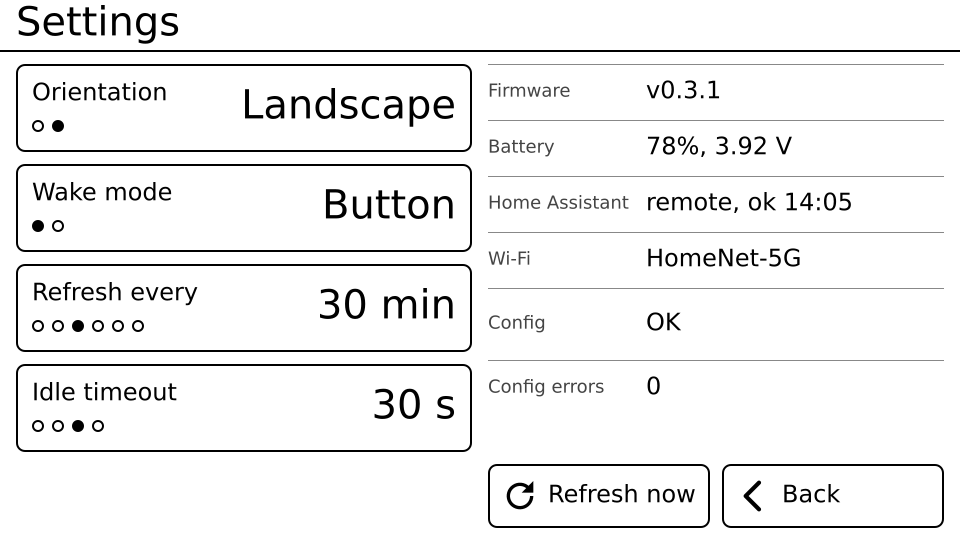
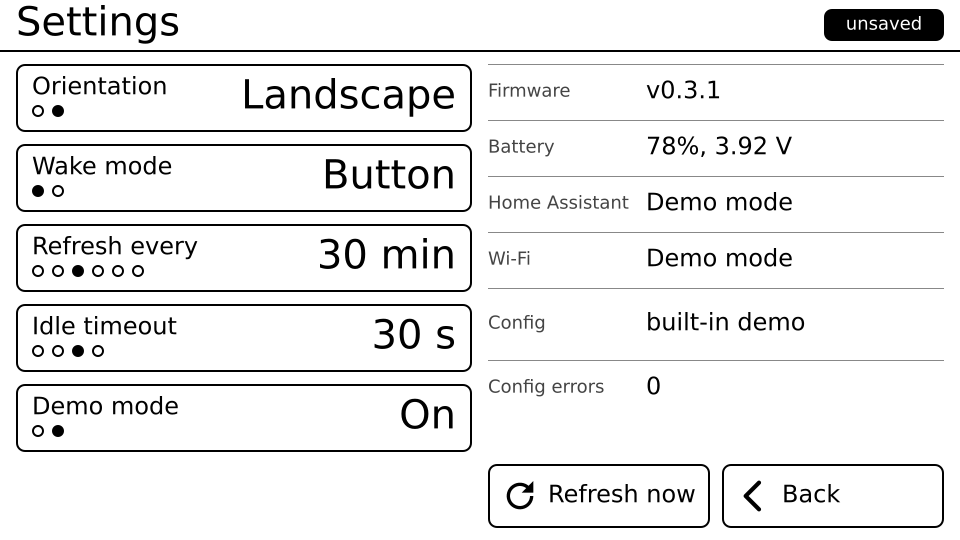
docs: settings spec with the Demo mode row (task 034)

diff --git a/docs/ui/settings.md b/docs/ui/settings.md
@@ -10,17 +10,18 @@ coordinates unless it says "row-relative".
 
 ## 1. Purpose and data sources
 
-Let the user change the four device settings, trigger a refresh, and see
+Let the user change the five device settings, trigger a refresh, and see
 read-only diagnostics.
 
 | Item | Source |
 |------|--------|
-| Orientation, wake mode, refresh interval, idle timeout | `settings::Settings` (lib/settings). Allowed values and cycle order = `kOrientationValues`, `kWakeModeValues`, `kRefreshIntervalMinValues` = {0, 15, 30, 60, 120, 240}, `kIdleTimeoutSValues` = {10, 20, 30, 60} |
+| Orientation, wake mode, refresh interval, idle timeout, demo mode | `settings::Settings` (lib/settings). Allowed values and cycle order = `kOrientationValues`, `kWakeModeValues`, `kRefreshIntervalMinValues` = {0, 15, 30, 60, 120, 240}, `kIdleTimeoutSValues` = {10, 20, 30, 60}, `demo_mode` (bool, `Off` -> `On`; task 034) |
 | Refresh now | the same state fetch as a tap on the "updated" label (ha_client) |
 | Firmware version | build-time constant (firmware-dev: needs a `FW_VERSION` define; architect to confirm where it comes from) |
 | Battery % and voltage | M5Unified power API, read when the screen opens and after every successful "Refresh now" |
 | HA connection | ha_client state: which URL worked last (local / remote), last success time (RTC), or offline |
 | Wi-Fi SSID | `connection:` section of config (the configured SSID); suffix `(not connected)` if the last session could not join |
+| Demo mode state | the saved `demo_mode` setting (when On, the app runs the embedded demo.yaml and starts no Wi-Fi/HA session; task 033/034) |
 | Config status, error count | config module (task 003 validation errors): first error's path and line, total count. Architect to confirm the config model exposes path + line of each error. |
 
 No Home Assistant entity or service is used except the shared state fetch.
@@ -43,6 +44,11 @@ No Home Assistant entity or service is used except the shared state fetch.
      sleep (power module reads the saved settings). The sleep indicator variant
      (STYLE.md 5.5) follows the saved wake mode.
    - Idle timeout: used from the moment Settings is left.
+   - Demo mode: applied on leaving, like orientation: the config source is
+     reloaded (embedded demo.yaml when On, the SD config when Off) and the tab
+     screen is drawn with the usual one full refresh. While it is On, no Wi-Fi
+     or HA session is started (and Refresh now does nothing but show its failed
+     look, see section 6).
 4. **Pending changes marker.** When buffer != saved, an INK chip `unsaved` is
    shown in the header. It disappears when equal again.
 5. **Idle in Settings.** The idle timer is fixed at 60 s while Settings is open
@@ -59,7 +65,7 @@ No Home Assistant entity or service is used except the shared state fetch.
    ARCHITECTURE.md). With Button the hint shows pips and the note slot is empty.
 7. **Value cycling.** Tap or push on a row moves to the next value in the
    `settings.h` array and wraps from the last to the first. There is no
-   "previous" (longest cycle is 6 values).
+   "previous" (longest cycle is 6 values; Demo mode cycles Off -> On -> Off).
 
 ## 3. Layout, portrait (540 x 960)
 
@@ -70,41 +76,46 @@ Margins 16, gaps between targets 12. White background. **All text that can chang
 | Title | x = 16, box (16, 0, 200, 54) | 27 | F40 INK, left | `Settings` |
 | Unsaved chip | (404, 11, 120, 32) | 27 | F18 PAPER on INK fill, radius 8, centred | `unsaved` (only when dirty) |
 | Header rule | (0, 54, 540, 2) | | INK fill | |
-| Row 1 Orientation | (16, 68, 508, 88) | 112 | border 2 INK, radius 8, PAPER | button |
-| Row 2 Wake mode | (16, 168, 508, 88) | 212 | same | button |
-| Row 3 Refresh every | (16, 268, 508, 88) | 312 | same | button |
-| Row 4 Idle timeout | (16, 368, 508, 88) | 412 | same | button |
+| Row 1 Orientation | (16, 68, 508, 68) | 102 | border 2 INK, radius 8, PAPER | button |
+| Row 2 Wake mode | (16, 148, 508, 68) | 182 | same | button |
+| Row 3 Refresh every | (16, 228, 508, 68) | 262 | same | button |
+| Row 4 Idle timeout | (16, 308, 508, 68) | 342 | same | button |
+| Row 5 Demo mode | (16, 388, 508, 68) | 422 | same | button |
 | Note slot | (16, 468, 508, 64) | 500 | see 3.2 | touch-wake warning |
 | Info hairline + rows | (16, 548 ... 852) | | see 3.3 | read-only |
 | Refresh now button | (16, 880, 248, 64) | 912 | border 2, radius 8 | action |
 | Back button | (276, 880, 248, 64) | 912 | border 2, radius 8 | action |
 
-Vertical sums: header 56; +12 = 68; rows 4 x 88 + 3 x 12 = 388 -> 456; +12 = 468;
+Row height is 68 (was 88 with four rows): 5 x 68 + 4 x 12 = 388, the same block height as before, so nothing below the rows moves. Vertical sums: header 56; +12 = 68; rows 388 -> 456; +12 = 468;
 note slot 64 -> 532; +16 = 548; info 5 x 48 + 64 = 304 -> 852; +28 = 880; footer 64 ->
 944; +16 = 960. Horizontal: 16 + 248 + 12 + 248 + 16 = 540 (the footer buttons
 use the widget grid's columns).
 
-### 3.1 Setting row (row-relative, width 508, height 88)
+### 3.1 Setting row (row-relative, width 508, height 68)
 
-Centre line of the row: cy = 44. Label and hint form a two-line block centred on 44
-(label cy = 30, hint cy = 62 -> block 21.5..68); the value is centred on cy = 44.
+Centre line of the row: cy = 34. Label and hint form a two-line block centred on 34
+(label F24 cy = 24 -> 12..36, hint cy = 47 -> 38..56, i.e. exactly inside the 12 px
+widget padding the checker uses); the value is centred on cy = 34.
 
 | Element | Rect | cy | Font / grey | Content |
 |---------|------|----|-------------|---------|
-| Label | x = 16, box (16, 18, 220, 24) | 30 | F24 INK, left | `Orientation`, `Wake mode`, `Refresh every`, `Idle timeout` |
-| Hint / pips | (16, 50, 220, 24) | 62 | see below | |
-| Value | right edge x = 492, box (240, 0, 252, 88) | 44 | F40 INK, right | value text |
+| Label | x = 16, box (16, 12, 220, 24) | 24 | F24 INK, left | `Orientation`, `Wake mode`, `Refresh every`, `Idle timeout`, `Demo mode` |
+| Hint / pips | (16, 38, 220, 18) | 47 | see below | |
+| Value | right edge x = 492, box (240, 0, 252, 68) | 34 | F40 INK, right | value text |
 
 Pips (hint line): one circle of diameter 12 per allowed value, centres at
-row-relative x = 22 + 20*k, cy = 62; the current value's pip is INK-filled,
-the others are 2 px outlines (shape, not grey). 2 pips for orientation and wake
-mode, 6 for refresh, 4 for idle. Wake mode with Touch replaces the pips by the
-warn icon (S) at (16, 50, 24, 24) and the text `drains battery` (F18 INK) at
-x = 46, cy = 62, left.
+row-relative x = 22 + 20*k, cy = 47; the current value's pip is INK-filled,
+the others are 2 px outlines (shape, not grey). 2 pips for orientation, wake
+mode and demo mode, 6 for refresh, 4 for idle. Wake mode with Touch replaces the
+pips by the text `drains battery` (F18 INK) at x = 16, cy = 47, left, and shows
+the warn icon (S, 24 x 24, cy = 34) just left of the value text, 12 px from its
+left edge (`Touch` at F40 is about 113 px wide, so the icon is at row-relative
+x = 356..380 in portrait). The icon moved out of the hint line because a 24 px
+icon under the label no longer fits the 68 px row.
 
 Value texts: Orientation `Portrait` / `Landscape`; Wake `Button` / `Touch`;
 Refresh `Off`, `15 min`, `30 min`, `60 min`, `120 min`, `240 min`; Idle `10 s`,
-`20 s`, `30 s`, `60 s`. Widest: `Landscape` at F40 is about 215 px, fits the
+`20 s`, `30 s`, `60 s`; Demo mode `Off` / `On`. Widest: `Landscape` at F40 is about 215 px, fits the
 252 px value rect and leaves room next to the longest label (`Refresh every`, about
 163 px at F24: 16 + 163 = 179 < 508 - 16 - 215 = 277).
 
@@ -127,10 +138,10 @@ fitting rule: F24, then F18, then `…`.
 |-----|------|----|-------|-------|
 | Firmware | (16, 548, 508, 48) | 572 | `Firmware` | `v0.3.1` |
 | Battery | (16, 596, 508, 48) | 620 | `Battery` | `78%, 3.92 V` (alert icon if <= 15 %, bolt icon if charging) |
-| HA | (16, 644, 508, 48) | 668 | `Home Assistant` | `local, ok 14:05` / `remote, ok 14:05` / alert icon + `offline, last ok 13:05` / alert icon + `offline, never ok` / `-` before the first session |
-| Wi-Fi | (16, 692, 508, 48) | 716 | `Wi-Fi` | SSID, or `SSID (not connected)`, or `-` |
-| Config | (16, 740, 508, 64) | 772 (lines 758 / 786) | `Config` | `OK`; or alert icon (cy 758) + first error up to 2 lines: `tabs[0].widgets[2].entity (line 34)`; or warn icon + `no config.yaml on SD` |
-| Errors | (16, 804, 508, 48) | 828 | `Config errors` | count (`0`, `3`), `-` when the config is missing |
+| HA | (16, 644, 508, 48) | 668 | `Home Assistant` | `Demo mode` (demo mode On) / `local, ok 14:05` / `remote, ok 14:05` / alert icon + `offline, last ok 13:05` / alert icon + `offline, never ok` / `-` before the first session |
+| Wi-Fi | (16, 692, 508, 48) | 716 | `Wi-Fi` | `Demo mode` (demo mode On), or SSID, or `SSID (not connected)`, or `-` |
+| Config | (16, 740, 508, 64) | 772 (lines 758 / 786) | `Config` | `OK`; or alert icon (cy 758) + first error up to 2 lines: `tabs[0].widgets[2].entity (line 34)`; or warn icon + `no config.yaml on SD`; `built-in demo` while demo mode is On (the SD config is not read; OPEN-S4) |
+| Errors | (16, 804, 508, 48) | 828 | `Config errors` | count (`0`, `3`), `-` when the config is missing; `0` in demo mode |
 
 Times: same day `14:05`; earlier day `26.10. 13:05`.
 
@@ -154,28 +165,35 @@ Two columns: settings on the left (16..472), info and actions on the right
 | Title | x = 16, box (16, 0, 200, 50) | 25 | F40 INK, left | `Settings` |
 | Unsaved chip | (824, 9, 120, 32) | 25 | F18 PAPER on INK, radius 8, centred | `unsaved` (when dirty) |
 | Header rule | (0, 50, 960, 2) | | INK | |
-| Row 1 Orientation | (16, 64, 456, 88) | 108 | as portrait | |
-| Row 2 Wake mode | (16, 164, 456, 88) | 208 | | |
-| Row 3 Refresh every | (16, 264, 456, 88) | 308 | | |
-| Row 4 Idle timeout | (16, 364, 456, 88) | 408 | | |
+| Row 1 Orientation | (16, 64, 456, 68) | 98 | as portrait | |
+| Row 2 Wake mode | (16, 144, 456, 68) | 178 | | |
+| Row 3 Refresh every | (16, 224, 456, 68) | 258 | | |
+| Row 4 Idle timeout | (16, 304, 456, 68) | 338 | | |
+| Row 5 Demo mode | (16, 384, 456, 68) | 418 | | |
 | Note slot | (16, 464, 456, 64) | 496 | see below | |
 | Info rows | (488, 64 ... 416, 456, ...) | | as portrait, value x = 158 (width 298) | |
 | Refresh now button | (488, 464, 222, 64) | 496 | | |
 | Back button | (722, 464, 222, 64) | 496 | | |
 
-Vertical sums (left column): header 52; +12 = 64; rows 4 x 88 + 3 x 12 = 388 ->
+Layout choice: all five rows get the portrait height 68 (a 64 px target plus 4 px
+for the border; 5 x 68 + 4 x 12 = 388, identical to the old 4 x 88 + 3 x 12). The
+rows stay a single column, the note slot and footer keep their y, the right
+column is untouched, and portrait and landscape share one row design. A 2-column
+row grid would have halved the row width to 222 and squeezed `Landscape` (F40,
+215 px) against its label; moving an info row would not free any left-column height.
+Vertical sums (left column): header 52; +12 = 64; rows 388 ->
 452; +12 = 464; note slot 64 -> 528; +12 = 540. Right column: info 64 -> 416,
 gap 48, footer 464 -> 528, +12 = 540. Horizontal: 16 + 456 + 16 + 456 + 16 = 960.
 Footer: 488 + 222 + 12 + 222 = 944.
 
-Landscape row internals (row-relative, width 456, height 88): identical to
-portrait with width 456: label x = 16, cy = 30; pips x = 22 + 20*k, cy = 62; value
-right edge x = 440, cy = 44; wake/Touch hint: warn icon (16, 50, 24, 24), text
-x = 46, cy = 62. Note slot (456 x 64): border 2, radius 8; alert icon (M) at
+Landscape row internals (row-relative, width 456, height 68): identical to
+portrait with width 456: label x = 16, cy = 24; pips x = 22 + 20*k, cy = 47; value
+right edge x = 440, cy = 34; wake/Touch hint: text x = 16, cy = 47, warn icon
+(24 x 24, cy = 34) 12 px left of the value text (x = 304..328). Note slot (456 x 64): border 2, radius 8; alert icon (M) at
 (12, 12, 40, 40); text from x = 64, cy = 21 and 43 (`Touch wake shortens battery
 life.` is about 313 px, fits the 380 px left).
 
-Info rows (x = 488, width 456, hairline on each top edge; label x = 0, value
+Info rows (unchanged; x = 488, width 456, hairline on each top edge; label x = 0, value
 x = 158 row-relative = 646 absolute):
 
 | Row | Rect | cy |
@@ -187,7 +205,7 @@ x = 158 row-relative = 646 absolute):
 | Config | (488, 288, 456, 72) | 324 (lines 310 / 338) |
 | Errors | (488, 360, 456, 56) | 388 |
 
-Heights: 4 x 56 + 72 + 56 = 352; 64 + 352 = 416. The config value has 298 px (266
+Heights: 4 x 56 + 72 + 56 = 352; 64 + 352 = 416. With demo mode On the HA and Wi-Fi rows read `Demo mode`, Config `built-in demo`, Errors `0` (landscape mockup). The config value has 298 px (266
 with an icon); `tabs[0].widgets[2].entity` is about 298 px at F24 and 224 px at F18,
 so here it falls to F18 or wraps (fit rule).
 
@@ -202,7 +220,7 @@ so here it falls to F18 or wraps (fit rule).
 | Back | leave (rule 2/3) | full refresh |
 | anything else | nothing | |
 
-All targets are >= 64 x 64 (rows 88 high, footer 64 high) with >= 12 px between
+All targets are >= 64 x 64 (rows 68 high, footer 64 high) with >= 12 px between
 them (rows are 12 apart, footer buttons 12 apart; landscape columns 16 apart).
 Settings is **entered by touch** with a tap on the battery cluster of the tab
 screen (hit kind `settings`); there is no status bar inside Settings.
@@ -210,15 +228,15 @@ screen (hit kind `settings`); there is no status bar inside Settings.
 ### Rocker
 
 Focus stops in order: 1 Orientation, 2 Wake mode, 3 Refresh every, 4 Idle
-timeout, 5 Refresh now, 6 Back. Entry focus = stop 1. The ring is the standard
+timeout, 5 Demo mode, 6 Refresh now, 7 Back. Entry focus = stop 1. The ring is the standard
 focus ring (3 px, 3..6 px outside the rect; the 12 px gaps and 16 px margins
 hold it; ring dirty region = rect inflated by 6).
 
 | Key | Action |
 |-----|--------|
-| PREV (up) | previous stop, wraps 1 -> 6 |
-| NEXT (down) | next stop, wraps 6 -> 1 |
-| PUSH | on a row: cycle value; on Refresh now: start fetch; on Back: leave (this is not a dialog; for any yes/no dialog: UP = yes, DOWN = no, PUSH = skip, STYLE.md section 10b) |
+| PREV (up) | previous stop, wraps 1 -> 7 |
+| NEXT (down) | next stop, wraps 7 -> 1 |
+| PUSH | on a row (stops 1-5): cycle value; on Refresh now: start fetch; on Back: leave (this is not a dialog; for any yes/no dialog: UP = yes, DOWN = no, PUSH = skip, STYLE.md section 10b) |
 | LONG_PUSH | leave (same as Back), from any stop |
 
 Ring move redraws old and new rects (inflated by 6), partial. Key mapping follows
@@ -241,6 +259,8 @@ layout.md 7.1 (`PREV`/`NEXT`, invert flag).
 | Normal | as the mockups |
 | HA offline / unreachable | HA row: alert icon + `offline, last ok 13:05` (or `offline, never ok`). Settings and Back work. Refresh now stays enabled: it tries, and on failure shows the alert icon (M) in place of its glyph until the next success. |
 | Refresh running | Refresh now: dashed 3 px border, hourglass (M) instead of its icon. HA row shows hourglass (S) + `refreshing…`. Rows stay active. |
+| Demo mode On | HA row and Wi-Fi row: `Demo mode`; Config row `built-in demo`, Errors `0`. Refresh now is shown but starts no fetch (it takes its failed look, alert icon, for one tick). Battery and Firmware as usual. The `unsaved` chip shows until Settings is left, then the config source is reloaded. |
+| Demo mode Off | HA / Wi-Fi / Config rows as in the other states above. |
 | Wi-Fi not joined | Wi-Fi row: `SSID (not connected)` |
 | Config missing | Config row: warn icon + `no config.yaml on SD`. Errors row `-`. HA and Wi-Fi rows show `-` if the connection section is gone with the file. Settings remain fully usable (this is how a user gets a device back to a sane state). |
 | Config with errors | Config row: alert icon + the **first** error as `path (line N)` (up to 2 lines, then `…`); Errors row shows the total, e.g. `3`. |
@@ -254,6 +274,7 @@ Loading state: none (everything is read synchronously when the screen opens).
 
 - OPEN-S1: idle timeout inside Settings fixed at 60 s (proposal).
 - (resolved) OPEN-S2: the touch path to Settings is a tap on the battery cluster.
+- OPEN-S4: in demo mode the Config row text `built-in demo` and the inert Refresh now are proposals (task 034 does not say); architect to confirm.
 - OPEN-S3: first line of info only shows the first config error; a scrollable
   list is not specified.
 - Questions for the architect: where `FW_VERSION` comes from; whether the config

diff --git a/docs/tasks/034-demo-mode-setting.md b/docs/tasks/034-demo-mode-setting.md
@@ -29,3 +29,4 @@ User request: switch to the built-in demo showcase at any time, even with secret
 
 ## Notes
 - Paused (2026-10-28, credits): logic part done (settings field, demo_mode.* decision logic, config source, reload on leave, row model; 498 tests). Open: 5th row layout/drawing after the settings.md revision; no unit test for demoChanged yet; plan_sleep still schedules refreshes in demo mode.
+- Spec done (settings.md: 5 rows x 68 px, mockups with ids, check_mockups 0). OPEN-S4 accepted as proposed: in demo mode Config shows "built-in demo", Errors 0, Refresh now starts no fetch. Next: firmware 5th row (rects, focus 1-7, drawing).
